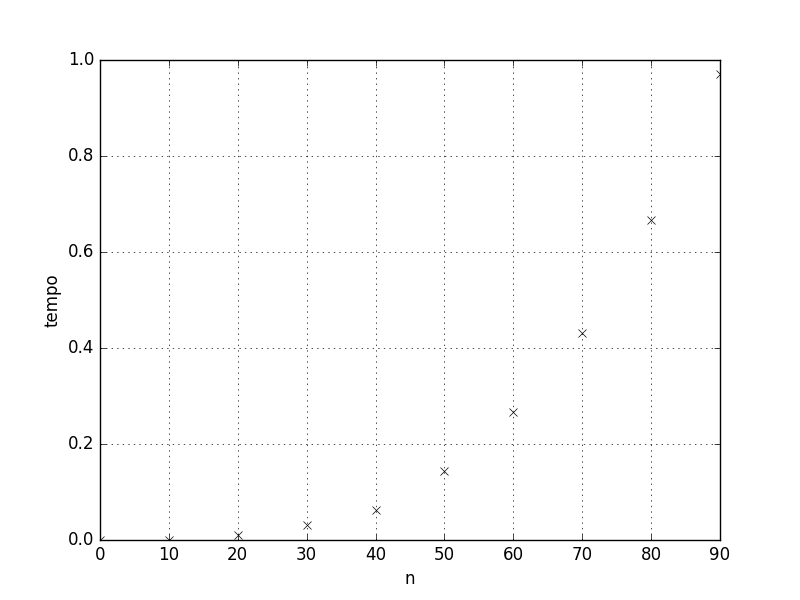
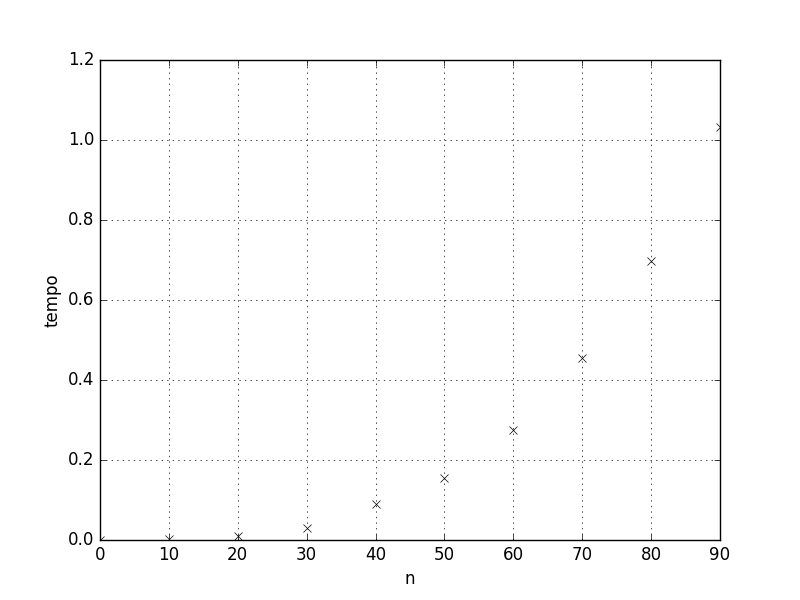
Correção de algumas bugs. Algumas paradas sem explicação ocorrem em algumas testes com hash (mas não desistam, na próxima execução pode fuincionar).

diff --git a/grafo_lista_adjacencia/main.cpp b/grafo_lista_adjacencia/main.cpp
@@ -547,7 +547,10 @@ uint testarGrafoEuleriano(uint n, uint amostra, bool GHash = false){
 }
 
 uint testarEhArcoPonte(uint n, uint amostra, bool GHash = false){
-//    Grafo *G = new Grafo();
+    Grafo *G;
+    if(GHash)   G = GrafoHash::grafoCompleto(n);
+    else        G = GrafoLista::grafoCompleto(n);
+
 //    G->insereNo(0);
 //    G->insereNo(1);
 //    G->insereNo(2);
@@ -560,33 +563,32 @@ uint testarEhArcoPonte(uint n, uint amostra, bool GHash = false){
 //    G->insereArcoID(3, 1, 5);
 //    G->insereArcoID(3, 2, 6);
 //    G->insereArcoID(2, 3, 7);
-////    Grafo *G = grafoDuardo();
-//    G->imprimir();
+    G = grafoDuardo(GHash);
+    G->imprimir();
 
-//    uint idArco;
-//    while(cin >> idArco)
-//        cout << "\nArco " << (G->ehArcoPonte(idArco) ? "" : "nao ") << "eh ponte.\n";
+    uint idArco;
+    while(cin >> idArco)
+        cout << "\nArco " << (G->ehArcoPonte(idArco) ? "" : "nao ") << "eh ponte.\n";
     n = n+2;
+    return 0;
 
-    Grafo *G;
-    if(GHash)   G = new GrafoHash(n);
-    else        G = new GrafoLista();
-
-    uint t, id[amostra];
-    for (uint i=0; i < amostra; i++)
-       id[i] = rand()%(n*(n-1));
-
-//    cout << "\ntestando arco: " << id << endl;
-
-    t = clock();
-    for (uint i=0; i < amostra; i++){
-        G->ehArcoPonte(id[i]);
-    }
-    t = clock() - t;
-
-    delete G;
-
-    return t;
+//
+//
+//    uint t, id[amostra];
+//    for (uint i=0; i < amostra; i++)
+//       id[i] = rand()%(n*(n-1));
+//
+////    cout << "\ntestando arco: " << id << endl;
+//
+//    t = clock();
+//    for (uint i=0; i < amostra; i++){
+//        G->ehArcoPonte(id[i]);
+//    }
+//    t = clock() - t;
+//
+//    delete G;
+//
+//    return t;
 }
 
 void testeListaHashRidiculo(){
@@ -606,10 +608,10 @@ void testeListaHashRidiculo(){
     G->insereArcoID(8, 0, 14);
     G->insereArcoID(16, 6, 14);
     G->imprimir();
-    G->removeNo(16);    /// <<---- TA ERRADO
-//    G->removeArco(8, 16); /// <<--- NAO FUNCIONA
+    G->removeNo(16);
+    G->removeArco(8, 16);
     G->imprimir();
-//    cout << G->buscaNo(16)->getID();
+    cout << G->buscaNo(5)->getID();
 }
 
 /** Para Linux */
@@ -658,25 +660,27 @@ int main(){
 //    arvoreGeradoraMinima();
 //    grafoCompleto(5)->imprimir();
 //
-    analiseDesempenho(testarProdutoCartesiano, 100, 10, 5, false, "Teste Produto Cartesiano Lista", "lista_teste_prod_cartesiano.csv");
-    analiseDesempenho(testarProdutoCartesiano, 100, 10, 5, true, "Teste Produto Cartesiano Hash", "hash_teste_prod_cartesiano.csv");
-    graficoPython("hash_teste_prod_cartesiano.csv");
-    graficoPython("lista_teste_prod_cartesiano.csv");
+//    analiseDesempenho(testarProdutoCartesiano, 141, 10, 5, false, "Teste Produto Cartesiano Lista", "lista_teste_prod_cartesiano.csv");
+//    analiseDesempenho(testarProdutoCartesiano, 141, 10, 5, true, "Teste Produto Cartesiano Hash", "hash_teste_prod_cartesiano.csv");
+//    graficoPython("lista_teste_prod_cartesiano.csv");
+//    graficoPython("hash_teste_prod_cartesiano.csv");
 
 //    testeFechamentoTransitivoNaMao();
 
 //    analiseDesempenho(testarGrafoEuleriano, 300000, 1001, 1, "Teste Grafo Euleriano", "teste_grafo_euleriano.csv");
 //    graficoPython("teste_grafo_euleriano.csv");
 
-//    analiseDesempenho(testarEhArcoPonte, 5001, 500, 5, "Teste Arco Ponte", "teste_arco_ponte.csv");
-//    graficoPython("teste_arco_ponte.csv");
+//    analiseDesempenho(testarEhArcoPonte, 5001, 500, 5, false, "Teste Arco Ponte LISTA", "teste_arco_ponte_LISTA.csv");
+//    graficoPython("teste_arco_ponte_LISTA.csv");
+//    analiseDesempenho(testarEhArcoPonte, 5001, 500, 5, true, "Teste Arco Ponte HASH", "teste_arco_ponte_HASH.csv");
+//    graficoPython("teste_arco_ponte_HASH.csv");
 
 //    testeListaHashRidiculo();
-
+    testarEhArcoPonte(0, 0, false);
 /*
     pauseGambiarra();
 
-    Grafo *G = GrafoLista::grafoCompleto(5000);
+    Grafo *G = GrafoLista::grafoCompleto(3000);
 //    Grafo *G = GrafoHash::grafoCompleto(5000);
 //    G->imprimir();
 
@@ -686,6 +690,7 @@ int main(){
 
     pauseGambiarra();
 */
+
 //    cout << THash<uint>::NextPrime(11);
 
     return 0;

diff --git a/grafo_lista_adjacencia/Hashing.h b/grafo_lista_adjacencia/Hashing.h
@@ -54,11 +54,10 @@ public:
 /// NAO SEI PORQUE NAO FUNCIONA SE ESTIVER LA
 
 template<class T>
-THash<T>::THash(uint tam, T NULO, T RM){
+THash<T>::THash(uint ordem, T NULO, T RM){
     this->NULO = NULO;
     this->RM = RM;
-//    this->tam = this->NextPrime(tam);
-    this->tam = (tam);
+    this->tam = this->NextPrime(ordem);
     this->insercoes = 0;
     this->colisoes = 0;
     tabela = new T[tam];
@@ -71,7 +70,6 @@ THash<T>::THash(uint tam, T NULO, T RM){
     this->funcaoHash = NULL;
     this->funcaoReHash = NULL;
     this->getID = NULL;
-//    this->iguais = NULL;
 }
 
 template<class T>
@@ -86,10 +84,6 @@ void THash<T>::setFuncaoReHash(uint (*funcao)(uint, uint)){
 
 template<class T>
 void THash<T>::setGetID(uint (*funcao)(T)){
-//    if(T == NULO)
-//        return -1;
-//    if(T == RM)
-//        return -2;
     this->getID = funcao;
 }
 
@@ -121,10 +115,6 @@ uint THash<T>::NextPrime(uint a){
     return a;
 
 }
-//template<class T>
-//void THash<T>::iguais(uint (*funcao)(T, T)){
-//    this->getID = funcao;
-//}
 
 template<class T>
 bool THash<T>::inserir(T obj){

diff --git a/grafo_lista_adjacencia/GrafoHash.cpp b/grafo_lista_adjacencia/GrafoHash.cpp
@@ -24,6 +24,14 @@ uint fReHashNo(uint id, uint tam){
     return id*2654435761 % 2^32 + 1;
 }
 
+//uint fHashNo(uint id, uint tam){
+//    return (id)%tam;
+//}
+//
+//uint fReHashNo(uint id, uint tam){
+//    return (id)%(tam/3)+1;
+//}
+
 uint noGetID(NoHash* no){
     return no->getID();
 }
@@ -80,8 +88,12 @@ bool GrafoHash::removeNo(uint id){
     return false;
 }
 
-void GrafoHash::imprimirTabela(){
+void GrafoHash::imprimir(){
+    cout << "\n[Grafo HASH] ";
+    Grafo::imprimir();
+}
 
+void GrafoHash::imprimirTabela(){
     printf("Grau do GrafoHash: %d\t numero de nos: %d\t numero de arcos: %d\t colisoes: %d\n",
            grau, numeroNos, numeroArcos, tabelaNos->getColisoes());
     for(itInicio(); !itEhFim(); itProx()){

diff --git a/grafo_lista_adjacencia/GrafoHash.h b/grafo_lista_adjacencia/GrafoHash.h
@@ -16,7 +16,7 @@ class GrafoHash : public Grafo
 private:
     THash<NoHash*> *tabelaNos;
     uint ordem;
-    float ajusteTam = 1.4;  /// ajuste para o tamanho da tabela
+    float ajusteTam = 1.2;  /// ajuste para o tamanho da tabela
     NoHash *it;  ///iterador (it) para lista de nos
 public:
     GrafoHash(uint ordem);
@@ -40,6 +40,7 @@ public:
 //    uint fReHashNo(uint id, uint tam);
 //    uint noGetID(NoHash* no);
 
+    void imprimir();
     void imprimirTabela();
 
     ~GrafoHash();

diff --git a/grafo_lista_adjacencia/NoHash.cpp b/grafo_lista_adjacencia/NoHash.cpp
@@ -16,6 +16,14 @@ uint fReHashArco(uint id, uint tam){
     return id*2654435761 % 2^32 + 1;
 }
 
+//uint fHashArco(uint id, uint tam){
+//    return (id)%tam;
+//}
+//
+//uint fReHashArco(uint id, uint tam){
+//    return (id)%(tam/3)+1;
+//}
+
 uint arcoGetID(Arco* arco){
     return arco->getID();
 }
@@ -48,6 +56,7 @@ Arco* NoHash::insereArco(No* noDestino, uint id){
     novoArco->setNoOrigem(this);
     tabelaArcos->inserir(novoArco);
     this->grau++;
+
     return novoArco;
 }
 

diff --git a/grafo_lista_adjacencia/Grafo.h b/grafo_lista_adjacencia/Grafo.h
@@ -47,7 +47,7 @@ public:
     virtual No* insereNo(uint id) = 0;
     virtual bool removeNo(uint id) = 0;
 
-    void imprimir();
+    virtual void imprimir();
 
     void atualizaGrau();
     void atualizaGrausEntradaSaidaDosNos();

diff --git a/grafo_lista_adjacencia/GrafoLista.cpp b/grafo_lista_adjacencia/GrafoLista.cpp
@@ -86,7 +86,10 @@ bool GrafoLista::removeNo(uint id){
     return false;
 }
 
-
+void GrafoLista::imprimir(){
+    cout << "\n[Grafo LISTA] ";
+    Grafo::imprimir();
+}
 
 /** IMPLEMENTAR DESTRUTOR */
 GrafoLista::~GrafoLista(){

diff --git a/grafo_lista_adjacencia/GrafoLista.h b/grafo_lista_adjacencia/GrafoLista.h
@@ -34,7 +34,7 @@ public:
     static GrafoLista* grafoCircular(uint n);
     static GrafoLista* grafoEscadinha(uint n);
 
-    void imprimirTabela();
+    void imprimir();
 
     ~GrafoLista();
 };
